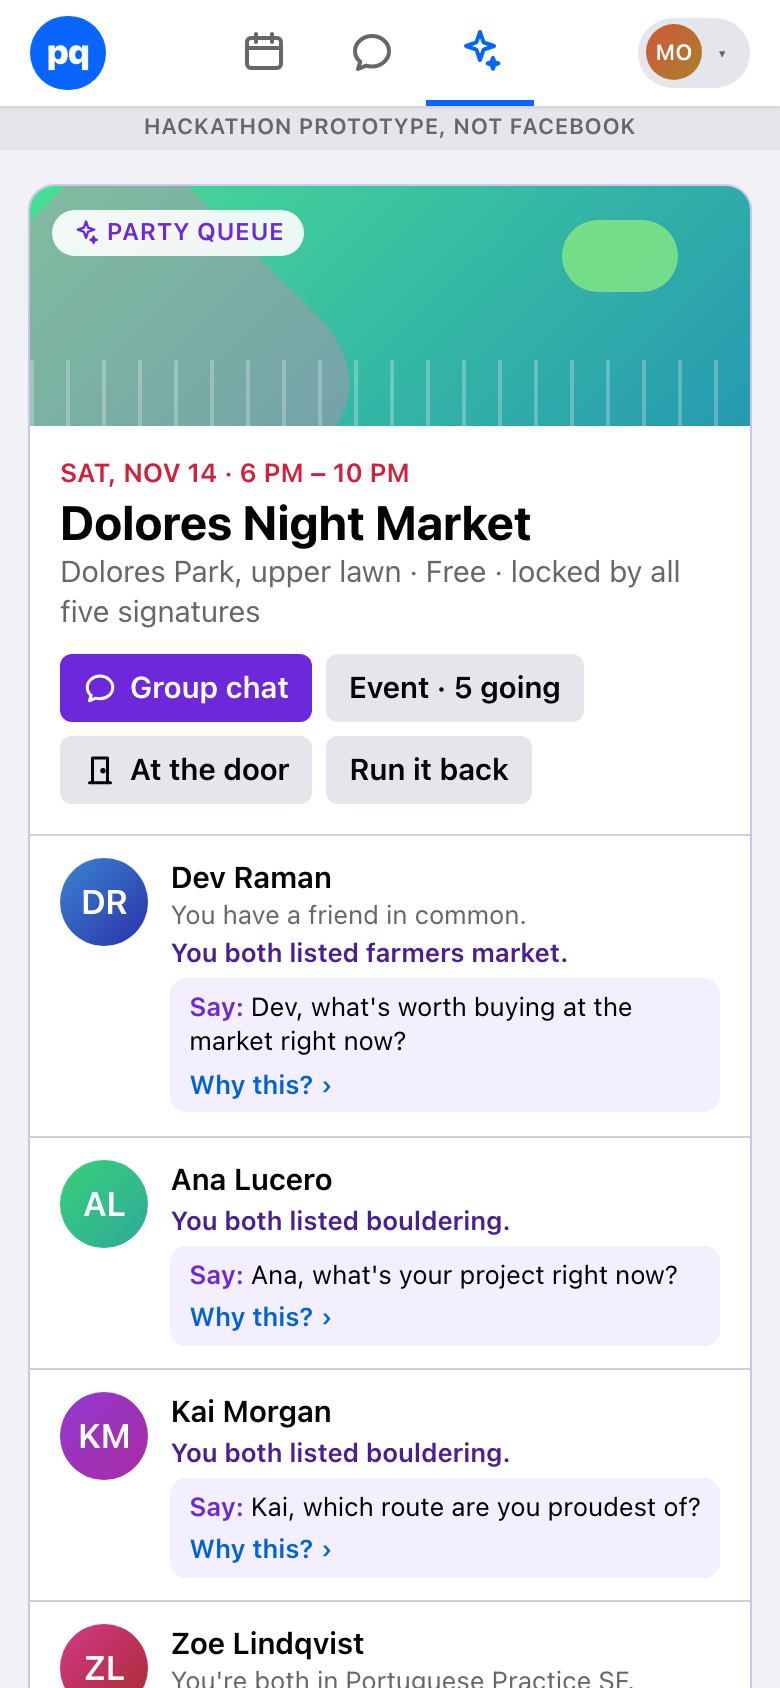
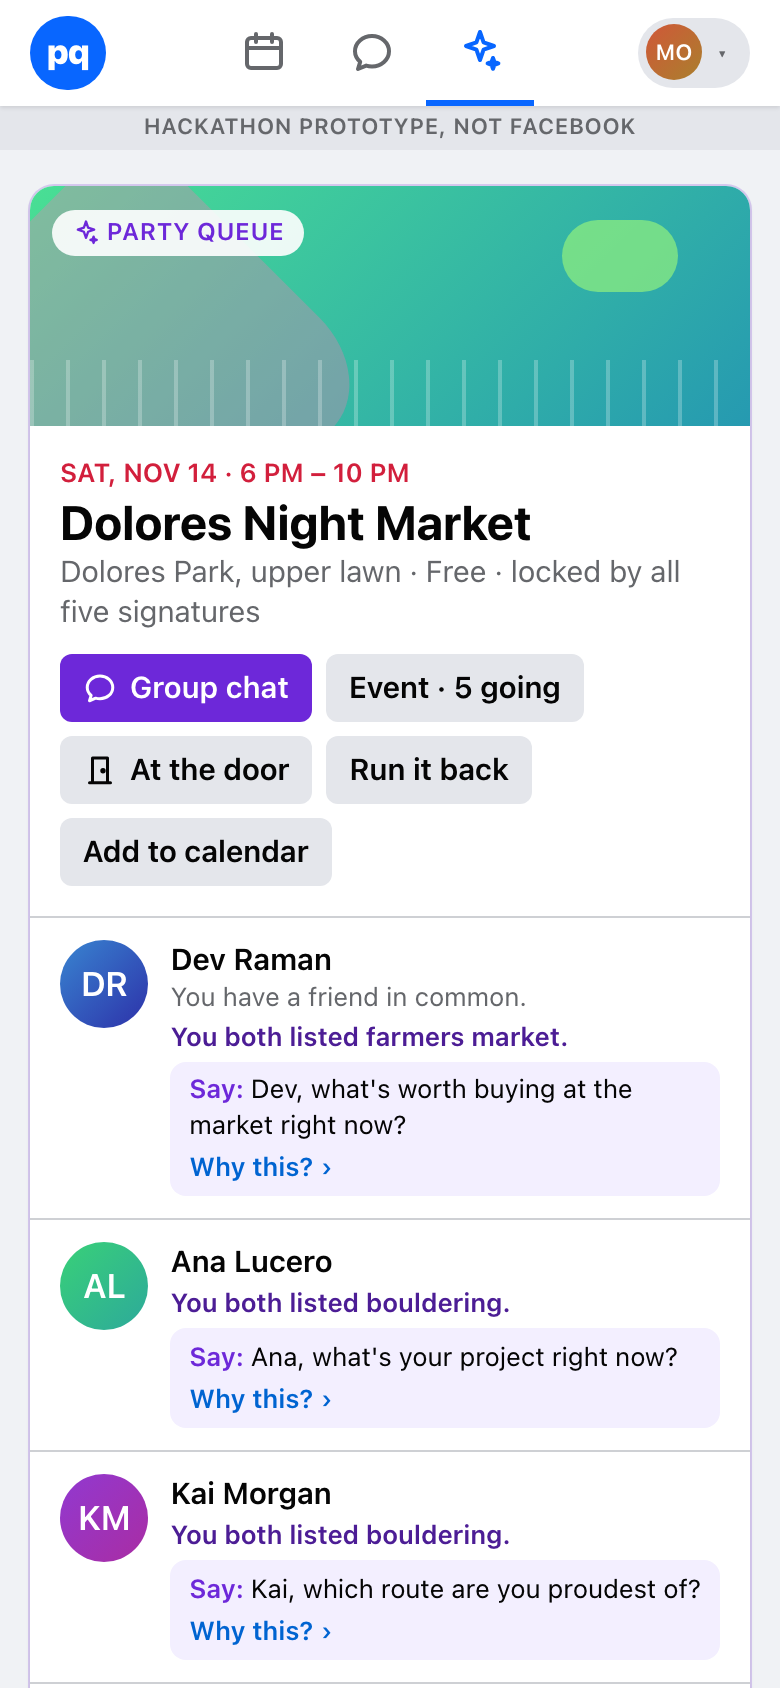
F38: Add to calendar
The locked plan downloads as an .ics file: local times, after midnight
ends the next day, and it names nobody.

Changed region(s): [[0.0615, 0.4621, 0.8923, 1.0], [0.7077, 0.7393, 0.8615, 0.7701]]

diff --git a/tests/unit/ics.test.ts b/tests/unit/ics.test.ts
@@ -1,0 +1,48 @@
+import { beforeEach, describe, expect, it } from "vitest";
+import { DEMO_PARTY as D } from "@/fixtures";
+import { runParty } from "@/lib/agents/orchestrator";
+import { flag } from "@/lib/flags";
+import { partyIcs } from "@/lib/server/ics";
+import { joinQueue } from "@/lib/server/queue";
+import { profile, resetStore, store } from "@/lib/server/store";
+
+const FIVE = ["dev", "ana", "kai", "zoe", "maya"];
+async function locked() {
+  resetStore();
+  for (const id of FIVE) await joinQueue({ userId: id, eventId: D.entryEventId, sentence: D.sentences[id]!, consentBridges: true, startTalk: false });
+  const pid = [...store().parties.keys()][0]!;
+  await runParty(pid, { paceMs: 0 });
+  return pid;
+}
+
+describe("add to calendar (F38)", () => {
+  beforeEach(() => {
+    process.env.PQ_PACE_MS = "0";
+  });
+
+  it("is on by default", () => expect(flag("ADD_TO_CALENDAR")).toBe(true));
+
+  it("the locked plan as a valid .ics: local times, place, and nobody's name", async () => {
+    const pid = await locked();
+    const ics = partyIcs(pid, "maya", new Date("2026-11-12T13:00:00Z"))!;
+    expect(ics.filename).toBe("party-queue-dolores-night-market.ics");
+    const lines = ics.body.split("\r\n");
+    expect(lines[0]).toBe("BEGIN:VCALENDAR");
+    expect(lines).toContain("DTSTART;TZID=America/Los_Angeles:20261114T180000");
+    expect(lines).toContain("DTEND;TZID=America/Los_Angeles:20261114T220000");
+    expect(lines).toContain("SUMMARY:Dolores Night Market");
+    expect(lines).toContain("LOCATION:Dolores Park\\, upper lawn\\, Dolores Park");
+    expect(lines).toContain("DTSTAMP:20261112T130000Z");
+    expect(ics.body.endsWith("END:VCALENDAR\r\n")).toBe(true);
+    for (const id of FIVE.filter((x) => x !== "maya")) expect(ics.body).not.toContain(profile(id).firstName);
+    expect(partyIcs(pid, "priya")).toBeNull();
+  });
+
+  it("a plan that ends after midnight ends the next day", async () => {
+    const pid = await locked();
+    const s = store();
+    const party = s.parties.get(pid)!;
+    party.planId = "plan-evt-synth"; // 9 PM to 1 AM
+    expect(partyIcs(pid, "maya")!.body).toContain("DTEND;TZID=America/Los_Angeles:20261115T010000");
+  });
+});

diff --git a/lib/server/ics.ts b/lib/server/ics.ts
@@ -1,0 +1,43 @@
+import { store } from "./store";
+
+/**
+ * "Add to calendar" (F38): the locked plan as an iCalendar file. Local
+ * (San Francisco) times, a plan that ends after midnight ends the next day,
+ * and it names nobody: "With four people you met through Party Queue".
+ */
+const esc = (s: string) => s.replace(/\\/g, "\\\\").replace(/;/g, "\;").replace(/,/g, "\\,").replace(/\r?\n/g, "\\n");
+const stamp = (date: string, hhmm: string) => `${date.replace(/-/g, "")}T${hhmm.replace(":", "")}00`;
+const nextDay = (date: string) => {
+  const d = new Date(`${date}T12:00:00Z`);
+  d.setUTCDate(d.getUTCDate() + 1);
+  return d.toISOString().slice(0, 10);
+};
+const slug = (s: string) => s.toLowerCase().replace(/[^a-z0-9]+/g, "-").replace(/^-|-$/g, "");
+
+export function partyIcs(partyId: string, viewerId: string, now: Date = new Date()): { filename: string; body: string } | null {
+  const s = store();
+  const party = s.parties.get(partyId);
+  if (!party || party.status !== "locked" || !party.planId || !party.memberIds.includes(viewerId)) return null;
+  const plan = s.plans.get(party.planId)!;
+  const ev = s.events.get(plan.eventId);
+  if (!ev) return null;
+  const endDate = plan.end < plan.start ? nextDay(ev.date) : ev.date;
+  const others = party.memberIds.length - 1;
+  const lines = [
+    "BEGIN:VCALENDAR",
+    "VERSION:2.0",
+    "PRODID:-//Party Queue//Hackathon prototype//EN",
+    "CALSCALE:GREGORIAN",
+    "BEGIN:VEVENT",
+    `UID:${party.id}-${viewerId}@party-queue.invalid`,
+    `DTSTAMP:${now.toISOString().replace(/[-:]/g, "").replace(/\.\d{3}/, "")}`,
+    `DTSTART;TZID=America/Los_Angeles:${stamp(ev.date, plan.start)}`,
+    `DTEND;TZID=America/Los_Angeles:${stamp(endDate, plan.end)}`,
+    `SUMMARY:${esc(plan.title)}`,
+    `LOCATION:${esc(`${plan.venueName}, ${ev.landmark}`)}`,
+    `DESCRIPTION:${esc(`With ${others === 4 ? "four" : others} people you met through Party Queue. Your group chat has the plan pinned. Hackathon prototype: fictional data.`)}`,
+    "END:VEVENT",
+    "END:VCALENDAR",
+  ];
+  return { filename: `party-queue-${slug(plan.title)}.ics`, body: lines.join("\r\n") + "\r\n" };
+}

diff --git a/tests/ics.spec.ts b/tests/ics.spec.ts
@@ -1,0 +1,22 @@
+import { expect, test } from "@playwright/test";
+import fs from "node:fs";
+import { lockedParty } from "./helpers";
+
+/* F38: Add to calendar downloads the locked plan as an .ics file. */
+
+test("add to calendar: the party card downloads the plan as .ics", async ({ browser, baseURL, request }) => {
+  test.setTimeout(150_000);
+  await lockedParty(request);
+  const ctx = await browser.newContext({ viewport: { width: 390, height: 844 }, acceptDownloads: true });
+  await ctx.addCookies([{ name: "pq_viewer", value: "maya", url: baseURL! }]);
+  const page = await ctx.newPage();
+  await page.goto("/party");
+  const [dl] = await Promise.all([page.waitForEvent("download"), page.getByTestId("add-to-calendar").click()]);
+  expect(dl.suggestedFilename()).toBe("party-queue-dolores-night-market.ics");
+  const body = fs.readFileSync((await dl.path())!, "utf8");
+  expect(body).toContain("SUMMARY:Dolores Night Market");
+  expect(body).toContain("DTSTART;TZID=America/Los_Angeles:20261114T180000");
+  for (const n of ["Dev", "Ana", "Kai", "Zoe"]) expect(body).not.toContain(n);
+  await page.getByTestId("party-card").screenshot({ path: "shots/f38-calendar.png" });
+  await ctx.close();
+});

diff --git a/app/api/party/ics/route.ts b/app/api/party/ics/route.ts
@@ -1,0 +1,17 @@
+import { NextResponse } from "next/server";
+import { flag } from "@/lib/flags";
+import { partyIcs } from "@/lib/server/ics";
+import { partyForViewer } from "@/lib/server/social";
+import { currentViewerId } from "@/lib/server/viewer";
+
+export const dynamic = "force-dynamic";
+
+/** Your locked plan as an .ics file. */
+export async function GET() {
+  if (!flag("ADD_TO_CALENDAR")) return NextResponse.json({ error: "off" }, { status: 404 });
+  const viewer = await currentViewerId();
+  const party = partyForViewer(viewer);
+  const ics = party ? partyIcs(party.id, viewer) : null;
+  if (!ics) return NextResponse.json({ error: "No plan to add yet." }, { status: 404 });
+  return new NextResponse(ics.body, { headers: { "content-type": "text/calendar; charset=utf-8", "content-disposition": `attachment; filename="${ics.filename}"` } });
+}

diff --git a/app/party/page.tsx b/app/party/page.tsx
@@ -105,6 +105,11 @@ export default async function PartyPage({ searchParams }: { searchParams: Promis
                   <Link href="/runitback" data-testid="open-runitback" className="press flex h-9 items-center gap-1.5 rounded-[6px] bg-[var(--color-btn-2)] px-3 text-[15px] font-semibold">
                     Run it back
                   </Link>
+                  {flag("ADD_TO_CALENDAR") && (
+                    <a href="/api/party/ics" download data-testid="add-to-calendar" className="press flex h-9 items-center gap-1.5 rounded-[6px] bg-[var(--color-btn-2)] px-3 text-[15px] font-semibold">
+                      Add to calendar
+                    </a>
+                  )}
                 </div>
               </>
             ) : (

diff --git a/lib/flags.ts b/lib/flags.ts
@@ -80,6 +80,8 @@ const DEFAULTS = {
   TELL_A_FRIEND: true,
   /** F37: find each other at the venue: "running late" and "where we meet", on everyone's door screen and in the chat. */
   FIND_EACH_OTHER: true,
+  /** F38: "Add to calendar" on /party: the locked plan as an .ics file, local times, names nobody. */
+  ADD_TO_CALENDAR: true,
 } as const satisfies Record<string, boolean>;
 
 export type FlagName = keyof typeof DEFAULTS;

diff --git a/FEATURES.md b/FEATURES.md
@@ -66,6 +66,7 @@ hues (spread across the wheel, layout picked from a title hash).
 | 35 | Run of show: the five-minute demo as nine timed beats | There are now more good beats than five minutes. A judge sees the demo, not the backlog; a presenter with a clock, the one line to say, and one-click setup for each beat lands all of it on time instead of improvising. | `RUN_OF_SHOW` | done (F35) |
 | 36 | Tell a friend where you'll be | Meeting four strangers is the moment people worry about, and the first safety habit is telling someone outside where you're going. The app writes that message from the locked plan in one tap, and it respects the others' privacy by not naming them. | `TELL_A_FRIEND` | done (F36) |
 | 37 | Find each other at the venue | The last ten minutes of the loop are the awkward ones: five strangers at a busy market. "Running late" and "where we meet", live on everyone's door screen and in the chat, finish the job the agents started. | `FIND_EACH_OTHER` | done (F37) |
+| 38 | Add to calendar | A plan that only lives in one app gets forgotten. One tap puts it in the calendar people already use, and the file names nobody. | `ADD_TO_CALENDAR` | done (F38) |
 
 ## Done
 
@@ -108,3 +109,4 @@ hues (spread across the wheel, layout picked from a title hash).
 | F35 | **Run of show** on `/demo`, under Preflight: nine beats back to back from 0:00 to 5:00 (Set up, One sentence, The table, MATCH FOUND, Maya's secret, Try to break it, At the door, After, Check us), each with its time slot, the one line to say, "Open … ↗" links to where to show it, and one-click setup that calls the existing demo endpoints (Reset everything; Pre-queue Dev, Ana, Kai, Zoe; View as Maya; Rogue model on, rerun the party; Rogue model off; Dev arrives). A clock (start, pause, resume, reset) highlights the current beat (`aria-current="step"`), marks finished ones "Done", and past 5:00 says "Over time by 0:15: go to “Check us”." The beats live in `lib/demo/script.ts`; a unit test keeps them back to back and every link and action real. | `RUN_OF_SHOW` | `npm test -- runofshow`: `Tests 4 passed` (nine beats from 0:00 to exactly 5:00 with no gaps; every link is a page and every action an API route; the beat for any moment; the clock format). `npx playwright test tests/runofshow.spec.ts` (with Playwright's clock): start, Set up is current; "Pre-queue Dev, Ana, Kai, Zoe: done" and Dev is waiting; at 1:05 the table is current; axe clean (finished beats first used opacity, which failed contrast; they now say "Done" instead); past 5:00, "Over time by 0:15": `✓ run of show: … (0.8s)`; `demo-panel`, `preflight`, `a11y`, `mobile` pass. Gate: typecheck exit 0, `Tests 208 passed (208)`, demo path passed. `shots/f35-run-of-show.png` |
 | F36 | **Tell a friend where you'll be** on `/party` once the plan is set: pick when you'll check in (30 minutes, 1 hour or 2 hours after the plan ends) and copy or share: "Heads up: I'm going to Dolores Night Market at Dolores Park, upper lawn, Sat, Nov 14, 6 PM–10 PM, with four people I met through Party Queue. It's a public place. I'll text you by 11 PM." It never names the other four and holds nobody's rules; Party Queue sends nothing (Share uses the phone's own share sheet, else copies). | `TELL_A_FRIEND` | `npm test -- tellfriend`: `Tests 2 passed` (nothing before the lock; the exact message and three check-in times; no member's name or private phrase anywhere in it; nothing for a non-member). `npx playwright test tests/tellfriend.spec.ts` at 390 px: pick 11 PM, the exact text, none of the four names, Copy puts it on the clipboard, axe clean: `✓ tell a friend: … (6.4s)`; `secret`, `why`, `mobile`, `a11y` pass. Gate: typecheck exit 0, `Tests 210 passed (210)`, demo path passed. `shots/f36-tell-friend.png` |
 | F37 | **Find each other** on `/door`, once the plan is set. **Running late?** 10, 20 or 30 min (until you tap I'm here) posts "Running about 10 minutes late." in the chat as your own message and shows "~10 min late" under your face on everyone's door screen; arriving clears it. **Where should everyone meet?** (3 to 80 characters) posts "Let's meet: by the big fountain, blue jacket" and puts it at the top of everyone's door screen with who set it. Both travel on a new strict `door.update` event that carries only what that person chose to share (minutes late, or the spot) to the five. | `FIND_EACH_OTHER` | `npm test -- meet`: `Tests 3 passed` (refused before the lock; late and spot land in the door state, the chat as each person's own messages, and two `door.update` events to the five with exactly those fields; arriving clears late; only 10/20/30, 3–80 characters, own party). `npm run contract:check`: `PASS - 335/335` (the new event). `npx playwright test tests/meet.spec.ts`: Dev taps 10 min, Maya's screen shows "~10 min late"; Maya sets the spot and both screens show it with her name; axe clean; Dev arrives and Maya sees "Here": `✓ find each other: … (13.5s)`; `door`, `glasses`, `whyline`, `chatlife`, `mobile`, `a11y` pass. Gate: typecheck exit 0, `Tests 213 passed (213)`, demo path passed. `shots/f37-find-each-other.png` |
+| F38 | **Add to calendar** on the party card once the plan is set: downloads `party-queue-dolores-night-market.ics` with the plan's title, the venue and landmark, start and end in local (`America/Los_Angeles`) time, a plan that ends after midnight ending the next day, and a description that names nobody ("With four people you met through Party Queue. Your group chat has the plan pinned. Hackathon prototype: fictional data."). Commas and semicolons are escaped; lines end in CRLF. | `ADD_TO_CALENDAR` | `npm test -- ics`: `Tests 3 passed` (the exact DTSTART, DTEND, SUMMARY, LOCATION and DTSTAMP lines, CRLF ending, no other member's name, nothing for a non-member; the 9 PM–1 AM show ends at 01:00 the next day). `npx playwright test tests/ics.spec.ts`: the download's filename and contents, no names: `✓ add to calendar: … (6.1s)`; `mobile` passes. Gate: typecheck exit 0, `Tests 216 passed (216)`, demo path passed. `shots/f38-calendar.png` |

diff --git a/README.md b/README.md
@@ -128,6 +128,7 @@ live from `/demo` → Layers, or with `PQ_FLAG_<NAME>=0|1`.
 | `RUN_OF_SHOW` | **Run of show** on `/demo`: nine timed beats to 5:00, the line to say, where to show it, one-click setup; a clock highlights the current beat and says when you're over |
 | `TELL_A_FRIEND` | "Tell a friend where you'll be" on `/party`: a message for someone outside the app with the place, the time and when you'll check in; names nobody; copy or share, nothing is sent |
 | `FIND_EACH_OTHER` | "Find each other" on `/door`: running late (10, 20 or 30 min) and where we meet, live on everyone's door screen and in the chat; arriving clears "late" |
+| `ADD_TO_CALENDAR` | **Add to calendar** on the party card: the locked plan as an `.ics` file (local times; after midnight ends the next day; names nobody) |
 | `NO_MATCH` | when no plan fits all five: everyone back at the front of the queue, nobody blamed, the same five never re-form; anyone whose own rules close every plan is told privately |
 
 ## Routes
@@ -173,7 +174,7 @@ inferred from a face; no score or label about a person or a pair.
 
 ```bash
 npm run typecheck
-npm test                       # 213 unit tests (vitest)
+npm test                       # 216 unit tests (vitest)
 npm run contract:check         # fixtures and events against the Zod contracts
 npm run eval -- --mock         # 7 eval suites
 npx playwright install chromium  # once, for the browser tests

diff --git a/docs/DEVPOST.md b/docs/DEVPOST.md
@@ -56,7 +56,7 @@ column is computed by scanning everything the other four can load, and it stays 
 - A code judge, a verifier for public lines, and pair talk where the model only picks fact ids.
 - A projector view with a scrubber that rebuilds the board (plans, signatures, the lock) at
   any moment of the replay.
-- Vitest (213 unit tests), Playwright (35+ end-to-end specs on a production build, including
+- Vitest (216 unit tests), Playwright (35+ end-to-end specs on a production build, including
   five phones at once, 390-pixel layouts and axe accessibility checks), and an eval harness.
 
 ## The leak test
